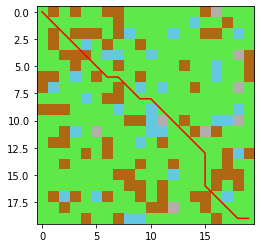
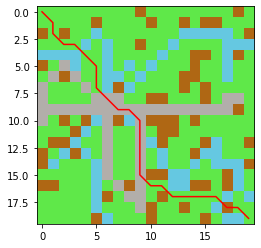
feat: connect the rivers and roads

diff --git a/kiri_pathfinding/map_generator.py b/kiri_pathfinding/map_generator.py
@@ -7,6 +7,7 @@ Created on Mon Oct 17 16:48:15 2022
 """
 
 import numpy as np
+from skimage.measure import label
 from matplotlib import pyplot as plt
 from matplotlib.colors import LinearSegmentedColormap
 
@@ -49,6 +50,14 @@ def generate_map(height, width, seed=None):
     for ind, prob in enumerate(terrain_prob):
         data_map[data_raw > np.percentile(data_raw, prob)] = ind + 1
 
+    # connect river
+    connector = TerrainConnector(data_map, 2)
+    data_map[connector.connect(3)] = 2
+
+    # connect road
+    connector = TerrainConnector(data_map, 3)
+    data_map[connector.connect(1)] = 3
+
     return data_map
 
 
@@ -70,3 +79,91 @@ def draw_map(data, axes=None):
     if axes is None:
         _, axes = plt.subplots()
     return axes.imshow(data, cmap=CMAP)
+
+
+class TerrainConnector:
+    """
+    class to connect coordinates in the same terrain
+
+    params
+    ------
+    data_map : np.ndarray(shape=(n, m))
+        data to describe the map
+    terrain : int,
+        the terrain code to connect
+
+    """
+
+    def __init__(self, data_map, terrain):
+        self.mask = data_map == terrain
+
+    def connect(self, max_number=1, min_distance2=2, **kwargs):
+        """
+        connect by the mask
+
+        params
+        ------
+        max_number : int or None,
+            the max number of coordinate sets,
+            None means trying to connect all into one set
+        min_distance2 : float,
+            min distance of the target point to connect
+
+        kwargs
+        ------
+        keyword params of kiri_pathfinding.pathfinding.PathFinding
+
+        returns
+        -------
+        mask : np.ndarray,
+            the mask of the connected terrain
+
+        """
+        end = False
+        while not end:
+            end = self._connect(max_number, min_distance2, **kwargs)
+        return self.mask
+
+    def _connect(self, max_number=None, min_distance2=2, **kwargs):
+        from kiri_pathfinding.pathfinding import PathFinding
+        pathfinding = PathFinding(self.mask, cost_ratios=(2, 1), **kwargs)
+        img_labeled = label(self.mask, connectivity=2)
+        label_ls = np.unique(img_labeled)
+        if max_number is not None and label_ls.max() <= max_number:
+            return True
+        for lab in label_ls:
+            if lab == 0:
+                continue
+            all_connected = self.__connect_lab(
+                lab, img_labeled, pathfinding, min_distance2)
+            if all_connected:
+                return True
+        return False
+
+    def __connect_lab(self, lab, img_labeled, pathfinding, min_distance2):
+        mask = lab == img_labeled
+        nodes = self.__filter_nodes(list(zip(*np.where(mask))))
+        indices = list(zip(*np.where((~mask) & self.mask)))
+        if len(indices) == 0:
+            return True
+        for node in nodes:
+            target = self.__get_closest_index(node, indices, min_distance2)
+            path = pathfinding.find(node, target)
+            if path:
+                self.mask[tuple(zip(*path))] = True
+                break
+        return False
+
+    @staticmethod
+    def __get_closest_index(point, indices, min_distance2=2):
+        delta2 = (np.subtract(indices, point) ** 2).sum(1)
+        delta2[delta2 <= min_distance2] = delta2.max() + 1
+        return indices[np.argmin(delta2)]
+
+    def __filter_nodes(self, indices):
+        return filter(self.__if_node, indices)
+
+    def __if_node(self, coord):
+        row, col = coord
+        data = self.mask[max(0, row - 1): row + 2, max(0, col - 1): col + 2]
+        return data.sum() <= 2

diff --git a/kiri_pathfinding/pathfinding.py b/kiri_pathfinding/pathfinding.py
@@ -24,7 +24,7 @@ def draw_path(path, axes=None, color='r'):
     return axes.plot(*zip(*map(lambda x: x[::-1], path)), color=color)
 
 
-def generate_connection(data, dtype="dict", cost_ratios=None):
+def generate_connection(data, cost_ratios=None, index_deltas=None):
     """
     generate a array to describe the moving costs between grids in the map.
 
@@ -37,6 +37,9 @@ def generate_connection(data, dtype="dict", cost_ratios=None):
     cost_ratios : None or list,
         the cost of each type of terrains,
         None means use default values
+    index_deltas : None or list,
+        the deltas of different indices,
+        None means use default values
 
     returns
     -------
@@ -46,8 +49,9 @@ def generate_connection(data, dtype="dict", cost_ratios=None):
     """
     if cost_ratios is None:
         cost_ratios = COST_RATIOS
-    return {"array": _generate_connection_array,
-            "dict": _generate_connection_dict}[dtype](data, cost_ratios)
+    if index_deltas is None:
+        index_deltas = INDEX_DELTAS
+    return _generate_connection_dict(data, cost_ratios, index_deltas)
 
 
 class PathFinding:
@@ -58,7 +62,7 @@ class PathFinding:
     ------
     data_map : np.ndarray(shape=(n, m)),
         the data to describe a map
-    cost_ratios : (movement_ratio, estimated_ratio),
+    balance : (movement_ratio, estimated_ratio),
         ratios of different costs, the default is (1, 1)
 
     kwargs
@@ -67,11 +71,11 @@ class PathFinding:
 
     """
 
-    def __init__(self, data_map, cost_ratios=None, **kwargs):
-        if cost_ratios is None:
-            cost_ratios = (1, 1)
+    def __init__(self, data_map, balance=None, **kwargs):
+        if balance is None:
+            balance = (1, 1)
         self.data_connection = generate_connection(data_map, **kwargs)
-        self.movement_ratio, self.estimated_ratio = cost_ratios
+        self.movement_ratio, self.estimated_ratio = balance
         self.__init_result()
 
     def __get_costs(self, start, stop, target):
@@ -214,28 +218,24 @@ def _rowcol_to_index(row, col, n_col):
     return index
 
 
-def _generate_connection_dict(data, cost_ratios):
+def _generate_connection_dict(data, cost_ratios, index_deltas):
     connection = {}
     for row in range(data.shape[0]):
         for col in range(data.shape[1]):
             indices_to_costs = _generate_indices_to_costs(
-                row, col, cost_ratios[data[row, col]], data.shape
+                row, col, cost_ratios[data[row, col]], data.shape, index_deltas
             )
             connection[row, col] = indices_to_costs
     return connection
 
 
-def _generate_indices_to_costs(row, col, ratio, shape):
+def _generate_indices_to_costs(row, col, ratio, shape, index_deltas):
     indices_to_costs = {}
     if ratio <= 0:
         return indices_to_costs
-    for r_delta, c_delta, cost in [
-        (-1, -1, 14), (-1, 1, 14), (1, 1, 14), (1, -1, 14),
-        (-1, 0, 10), (1, 0, 10), (0, 1, 10), (0, -1, 10),
-    ]:
-        row_ind = row + r_delta
-        col_ind = col + c_delta
-        if not (0 <= row_ind < shape[0] and 0 <= col_ind < shape[1]):
-            continue
-        indices_to_costs[(row_ind, col_ind)] = ratio * cost
+    for cost, indices in index_deltas:
+        for row_ind, col_ind in indices + (row, col):
+            if not (0 <= row_ind < shape[0] and 0 <= col_ind < shape[1]):
+                continue
+            indices_to_costs[(row_ind, col_ind)] = ratio * cost
     return indices_to_costs
